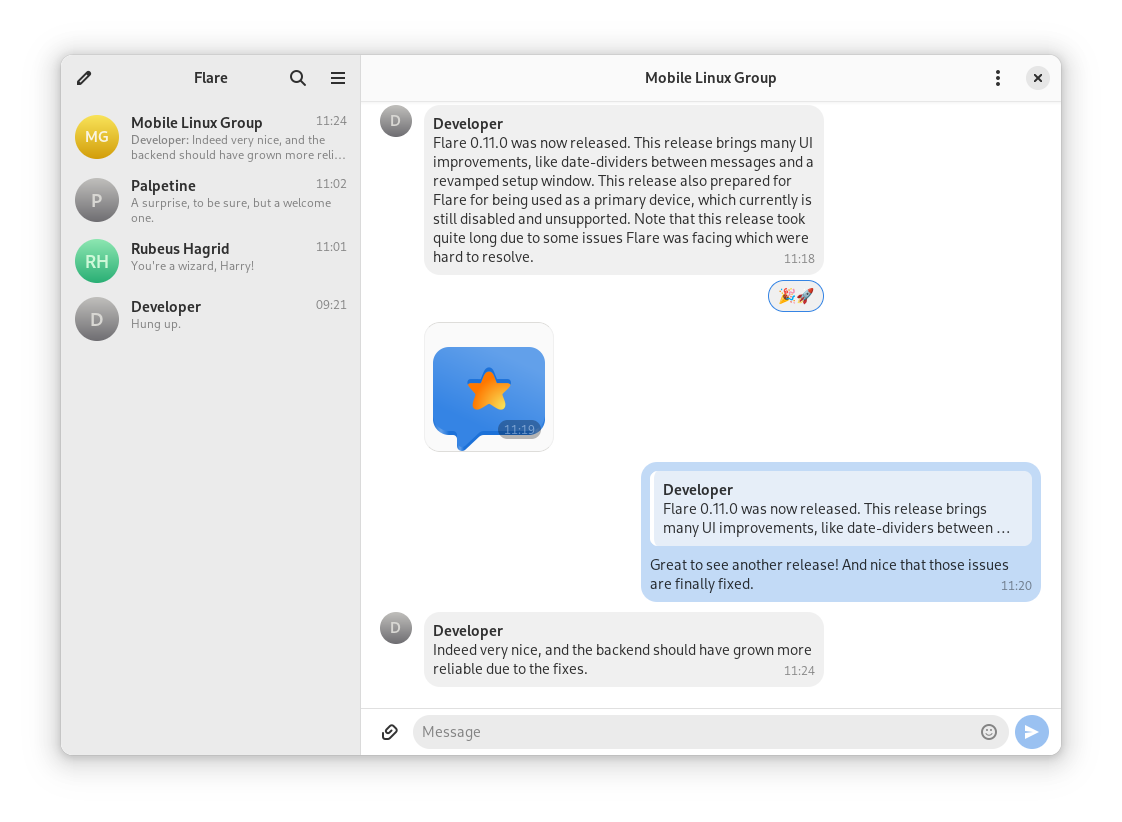
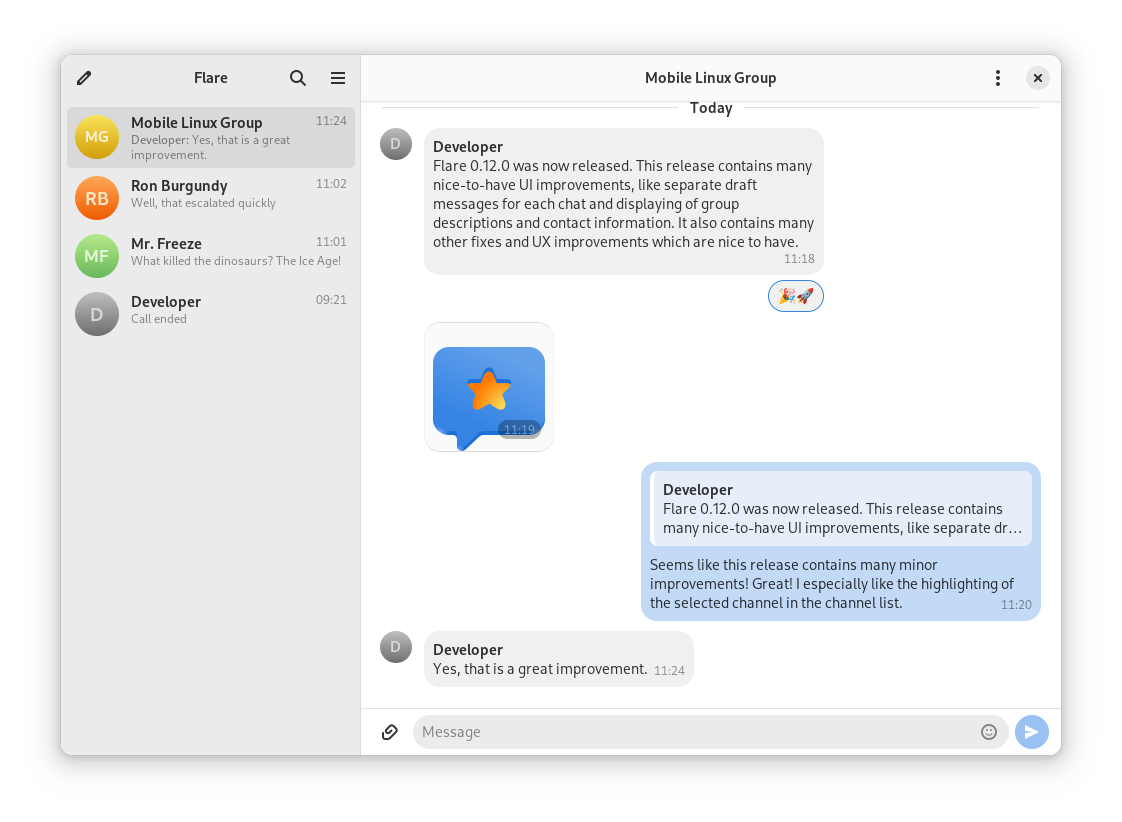
ver(0.12.0): New version

diff --git a/src/backend/dummy.rs b/src/backend/dummy.rs
@@ -74,7 +74,7 @@ pub fn dummy_presage_contacts() -> Vec<LContact> {
         LContact {
             uuid: Uuid::from_u128(1),
             phone_number: None,
-            name: "Arch Linux Mobile User".to_string(),
+            name: "Postmarket OS Linux Mobile User".to_string(),
             color: None,
             verified: Default::default(),
             profile_key: vec![],
@@ -100,7 +100,7 @@ pub fn dummy_presage_contacts() -> Vec<LContact> {
         LContact {
             uuid: Uuid::from_u128(3),
             phone_number: None,
-            name: "Rubeus Hagrid".to_string(),
+            name: "Mr. Freeze".to_string(),
             color: None,
             verified: Default::default(),
             profile_key: vec![],
@@ -113,7 +113,7 @@ pub fn dummy_presage_contacts() -> Vec<LContact> {
         LContact {
             uuid: Uuid::from_u128(4),
             phone_number: None,
-            name: "Palpetine".to_string(),
+            name: "Ron Burgundy".to_string(),
             color: None,
             verified: Default::default(),
             profile_key: vec![],
@@ -210,14 +210,14 @@ impl super::Manager {
 
         let msg_replied = msg!(
             self,
-            "Flare 0.11.0 was now released. This release brings many UI improvements, like date-dividers between messages and a revamped setup window. This release also prepared for Flare for being used as a primary device, which currently is still disabled and unsupported. Note that this release took quite long due to some issues Flare was facing which were hard to resolve.",
+            "Flare 0.12.0 was now released. This release contains many nice-to-have UI improvements, like separate draft messages for each chat and displaying of group descriptions and contact information. It also contains many other fixes and UX improvements which are nice to have.",
             2,
             GROUP_ID,
             18 + base_minute
         );
         let msg_reply = msg!(
             self,
-            "Great to see another release! And nice that those issues are finally fixed.",
+            "Seems like this release contains many minor improvements! Great! I especially like the highlighting of the selected channel in the channel list.",
             0,
             GROUP_ID,
             20 + base_minute
@@ -261,7 +261,7 @@ impl super::Manager {
             msg_reply,
             msg!(
                 self,
-                "Indeed very nice, and the backend should have grown more reliable due to the fixes.",
+                "Yes, that is a great improvement.",
                 2,
                 GROUP_ID,
                 24 + base_minute
@@ -286,12 +286,12 @@ impl super::Manager {
             ),
             msg!(
                 self,
-                "You're a wizard, Harry!",
+                "What killed the dinosaurs? The Ice Age!",
                 3,
                 3,
                 1 + base_minute
             ),
-            msg!(self, "A surprise, to be sure, but a welcome one.", 4, 4, 2 + base_minute),
+            msg!(self, "Well, that escalated quickly", 4, 4, 2 + base_minute),
         ]
     }
 

diff --git a/CHANGELOG.md b/CHANGELOG.md
@@ -6,12 +6,16 @@ and this project adheres to [Semantic Versioning](https://semver.org/spec/v2.0.0
 
 ## [Unreleased]
 
+## [0.12.0] - 2024-02-11
+
 ### Added
+
 - Draft message for each chat.
-- Display of group descriptions.
-- Reception of typing indicators.
+- Display of group descriptions and contact about information.
+- Reception of typing indicators (contact-only for now).
 
 ### Changed
+
 - The sidebar now highlights the active chat.
 - Grab focus of the entry when replying to a message.
 - UI improvements to the channel information dialog, which now also displays phone number, disappearing messages timer and description.
@@ -500,7 +504,8 @@ and this project adheres to [Semantic Versioning](https://semver.org/spec/v2.0.0
 - Fixed cargo clippy.
 - Updated presage to official repository.
 
-[Unreleased]: https://gitlab.com/schmiddi-on-mobile/flare/-/compare/0.11.2...master
+[Unreleased]: https://gitlab.com/schmiddi-on-mobile/flare/-/compare/0.12.0...master
+[0.12.0]: https://gitlab.com/schmiddi-on-mobile/flare/-/compare/0.11.2...0.12.0
 [0.11.2]: https://gitlab.com/schmiddi-on-mobile/flare/-/compare/0.11.1...0.11.2
 [0.11.1]: https://gitlab.com/schmiddi-on-mobile/flare/-/compare/0.11.0...0.11.1
 [0.11.0]: https://gitlab.com/schmiddi-on-mobile/flare/-/compare/0.10.0...0.11.0
